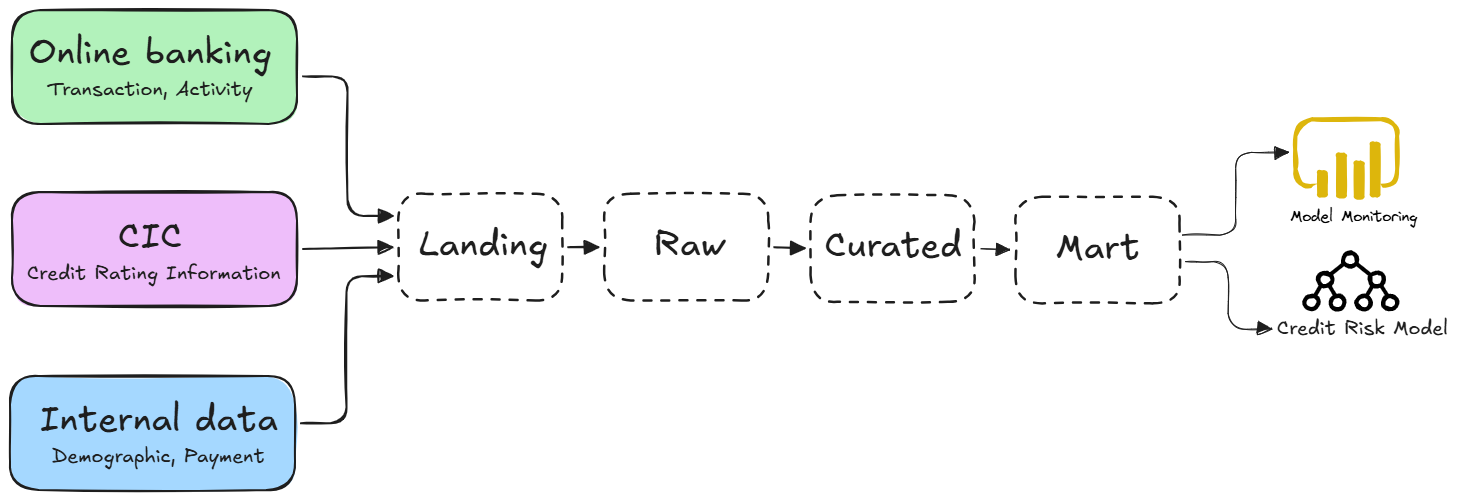
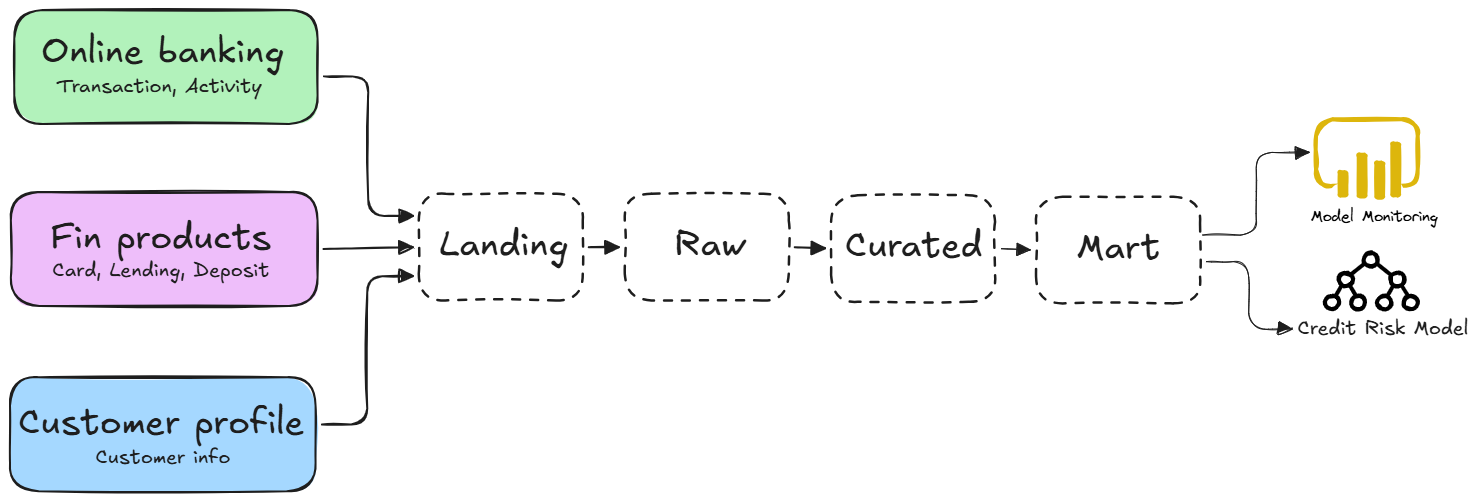
Implement new dims into dbt models + landing_to_raw

diff --git a/setup/landing_to_raw.py b/setup/landing_to_raw.py
@@ -1,0 +1,59 @@
+# landing_to_raw.py
+import pandas as pd
+from pathlib import Path
+from azure.storage.blob import BlobServiceClient
+import io, os
+from dotenv import load_dotenv
+load_dotenv()  # loads .env from current directory
+
+LANDING_ROOT = "landing"
+RAW_ROOT     = "raw"
+
+FILE_MAP = [
+    # (landing subfolder, landing filename stem, raw subfolder, raw filename)
+    ("customerprofile", "Data_customer",            "customerprofile",  "base_customer"),
+    ("products",         "Data_deposit",            "products",         "base_deposit"),
+    ("products",         "Data_card",               "products",         "base_card"),
+    ("products",         "Data_lending",            "products",         "base_lending"),
+    ("onlinebanking",    "Data_MyVIB_Activity",     "onlinebanking",    "base_activity"),
+    ("onlinebanking",    "Data_MyVIB_Transaction",  "onlinebanking",    "base_transaction"),
+]
+
+def convert(blob_service: BlobServiceClient, container: str):
+    for land_folder, land_stem, raw_folder, raw_stem in FILE_MAP:
+        src_prefix = f"{LANDING_ROOT}/{land_folder}/{land_stem}/"
+
+        # collect all CSV chunks under this prefix
+        blobs = [
+            b.name for b in blob_service.get_container_client(container)
+            .list_blobs(name_starts_with=src_prefix)
+            if b.name.endswith(".csv")
+        ]
+
+        if not blobs:
+            print(f"  [SKIP] no CSVs found under {src_prefix}")
+            continue
+
+        # read and concatenate all chunks
+        dfs = []
+        for blob_path in blobs:
+            blob = blob_service.get_blob_client(container, blob_path)
+            raw_bytes = blob.download_blob().readall()
+            dfs.append(pd.read_csv(io.BytesIO(raw_bytes), dtype=str, low_memory=False))
+
+        df = pd.concat(dfs, ignore_index=True)
+        df = df.apply(lambda col: col.str.strip() if col.dtype == object else col)
+
+        # upload as single parquet
+        dst_path = f"{RAW_ROOT}/{raw_folder}/{raw_stem}.parquet"
+        buf = io.BytesIO()
+        df.to_parquet(buf, index=False, engine="pyarrow")
+        buf.seek(0)
+
+        out_blob = blob_service.get_blob_client(container, dst_path)
+        out_blob.upload_blob(buf, overwrite=True)
+        print(f"  {src_prefix}  →  {dst_path}  ({len(df):,} rows)")
+
+if __name__ == "__main__":
+    client = BlobServiceClient.from_connection_string(os.environ["AZURE_STORAGE_CONNECTION_STRING"])
+    convert(client, "risk-data")

diff --git a/setup/test.py b/setup/test.py
@@ -1,0 +1,10 @@
+from azure.storage.blob import BlobServiceClient
+from dotenv import load_dotenv
+import os
+
+load_dotenv()
+client = BlobServiceClient.from_connection_string(os.environ["AZURE_STORAGE_CONNECTION_STRING"])
+container = client.get_container_client("risk-data")
+
+for blob in container.list_blobs(name_starts_with="landing/"):
+    print(blob.name)
